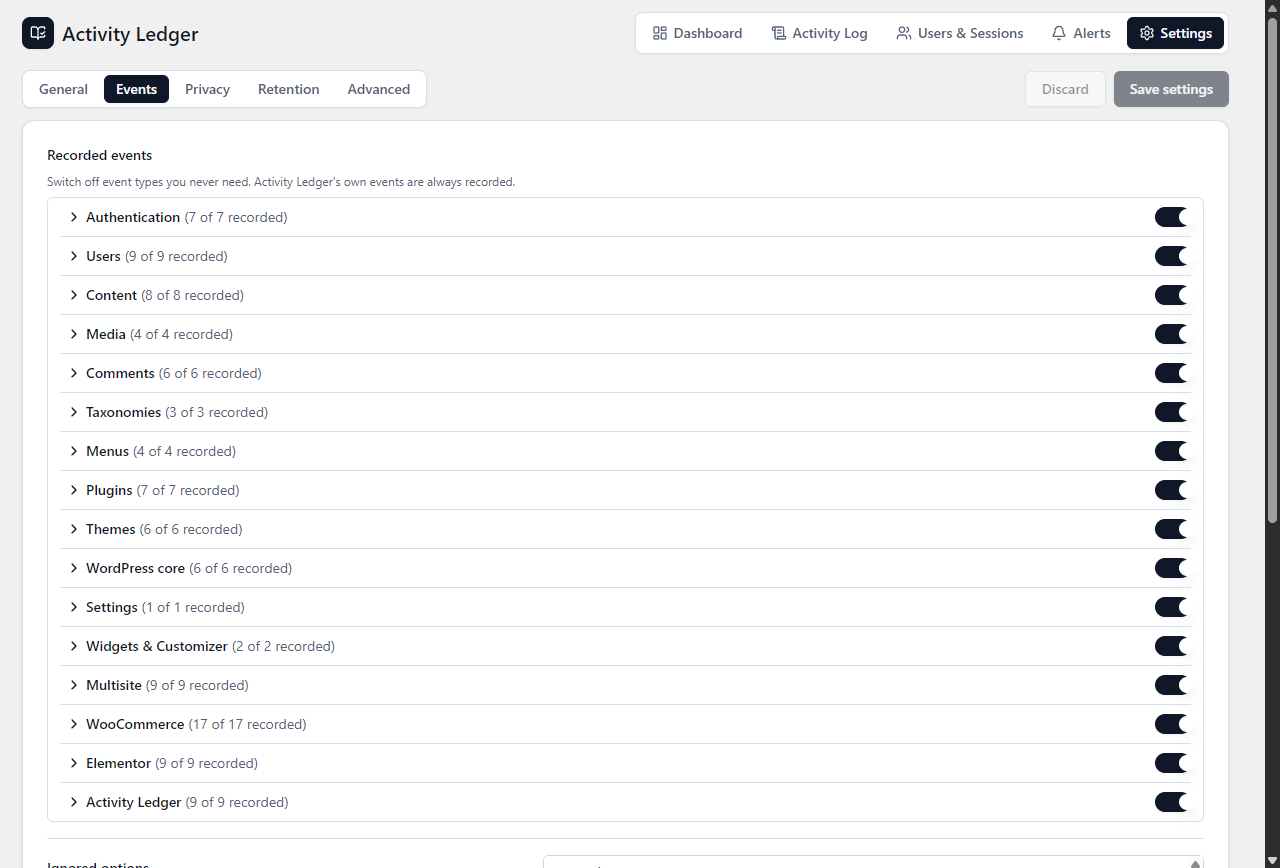
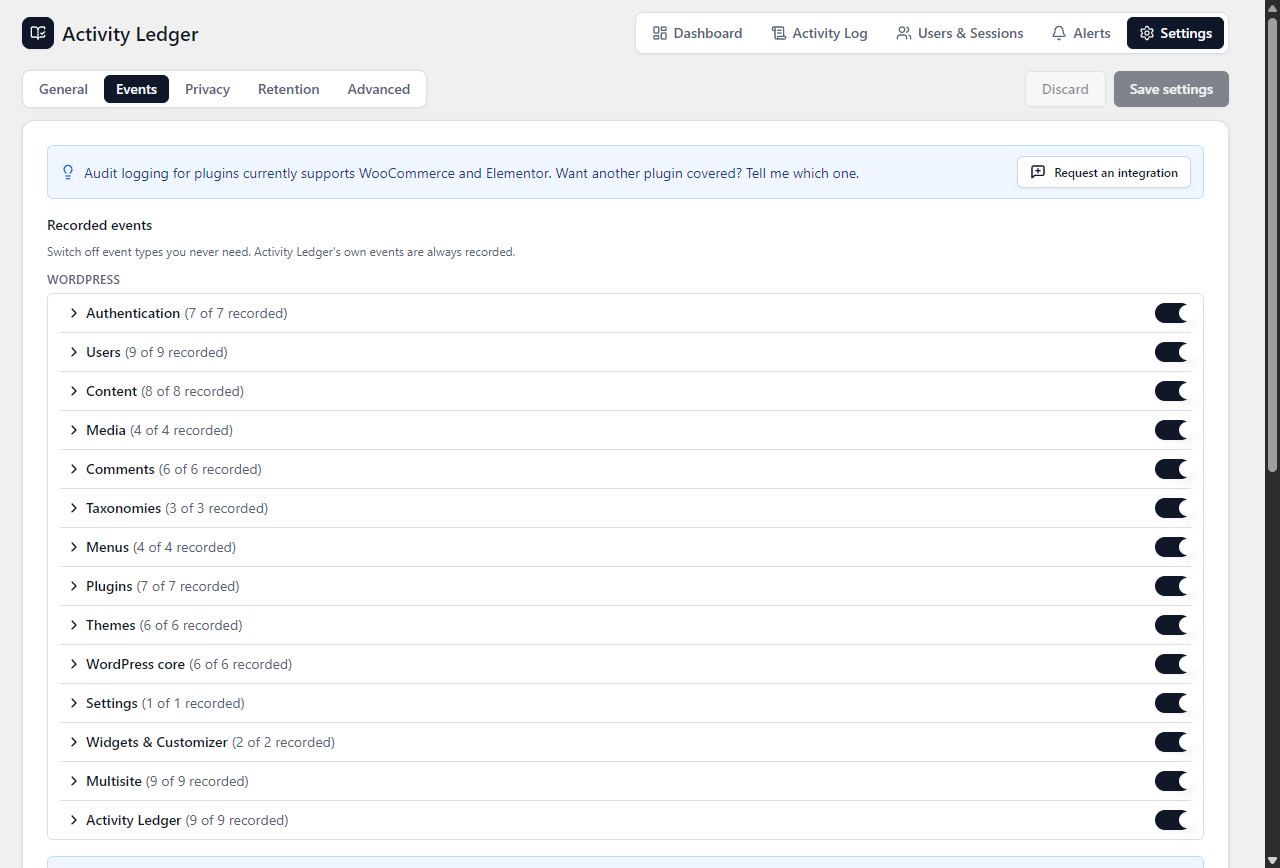
README: Users sorting, Events groups and integration requests (what is sent and when); retake the Settings screenshot

Changed region(s): [[0.0312, 0.1866, 0.9375, 1.0], [0.0312, 0.1555, 0.6562, 0.2177], [0.9688, 0.5288, 1.0, 0.591]]

diff --git a/README.md b/README.md
@@ -18,7 +18,7 @@ An audit log for WordPress. It records who did what, when and from where, with f
 - **Activity log:** filters (date range, user, role, category, event type, severity, object, IP, session, text) kept in the URL so views can be shared. A detail drawer, per-user column choice, and a 30-second auto-refresh.
 - **System events:** routine events with no logged-in user (cron, WP-CLI, remote site managers) are hidden by default in the log, the dashboard and exports. System warnings and critical events (failed logins, purges) always show. Each user can turn on "Show system events", or pick "System" in the user filter to see them all.
 - **Dashboard:** headline numbers, events over time by category (with a table view), top users and events, recent critical events that open in the detail drawer, and a widget on Dashboard → Home.
-- **Users & sessions:** activity per user, active sessions with "Log out" and "Log out everywhere".
+- **Users & sessions:** activity per user, sortable by last activity, events or login across all pages, and active sessions with "Log out" and "Log out everywhere".
 - **Alerts:** rules (event types, categories, severity, roles, "N times in M minutes per IP or user", cooldown) sent to email, signed webhooks, Slack, Discord or Microsoft Teams, in the background with retries. Seven built-in templates (new administrator, brute force, plugin changes…) ship switched off.
 - **Export:** CSV or JSON of the current filters, streamed, any size.
 - **Retention:** keep events for N days and/or at most N events. Old events are deleted daily in batches.
@@ -56,10 +56,14 @@ Updates appear on **Dashboard → Updates** like any other plugin: the plugin ch
 **Activity Ledger → Settings** has five tabs:
 
 - **General:** whose actions are recorded (every role or selected roles), excluded users, anonymous actions (failed logins), which roles may view or export the log, failed-login grouping, the dashboard widget.
-- **Events:** switch off event types you don't need, and edit the ignored options, ignored meta keys and redacted fields (one pattern per line, `*` matches anything), plus the largest stored value.
+- **Events:** switch off event types you don't need, grouped under WordPress and Plugin integrations, and edit the ignored options, ignored meta keys and redacted fields (one pattern per line, `*` matches anything), plus the largest stored value. **Request an integration** emails a request for another plugin to the author (see below).
 - **Privacy:** anonymise IPs (IPv4 /24, IPv6 /48), store browser details, and the client IP source. Only choose a proxy header if your site is behind a proxy or CDN that sets it.
 - **Retention:** days and maximum number of events, and **Purge logs** (type `PURGE` to confirm).
 - **Advanced:** delete all data when the plugin is deleted. It's off by default, so the audit trail survives an uninstall.
+
+### Integration requests
+
+The plugin never contacts the author on its own. Only when an administrator sends the **Request an integration** form does the site email the request with `wp_mail()`. The email contains the form fields, the sender's name and email (as Reply-To), the site address, and the Activity Ledger and WordPress versions. Each user can send three requests per hour. The optional **Buy me a coffee** button only opens PayPal.Me in a new tab; the plugin handles no payment data.
 
 ### Capabilities
 
